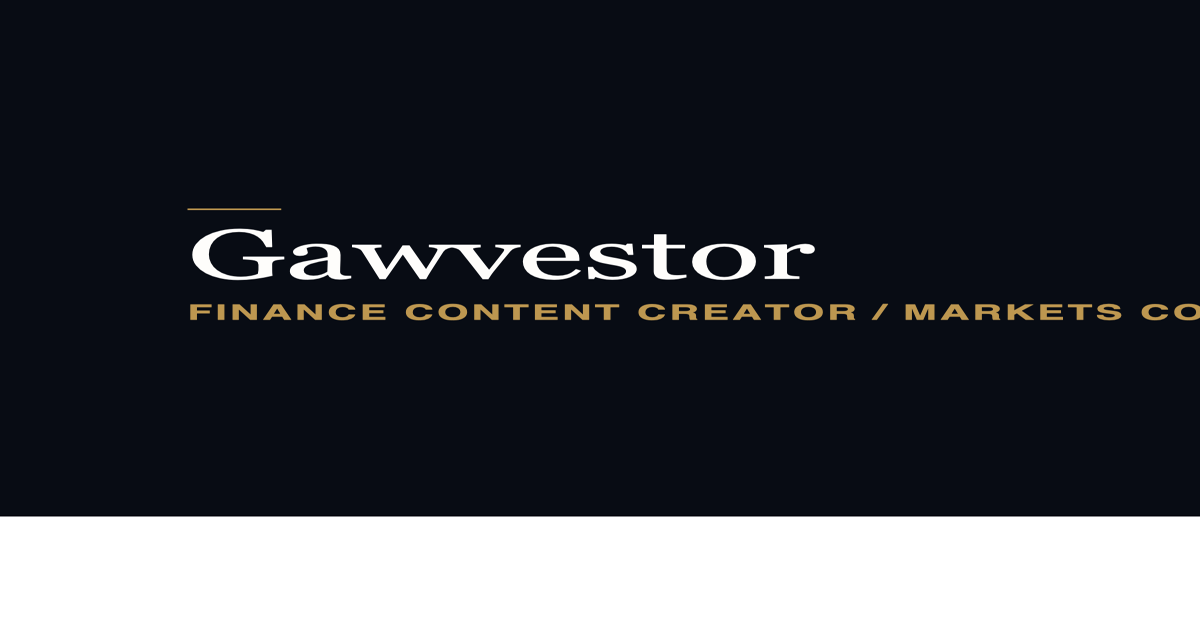
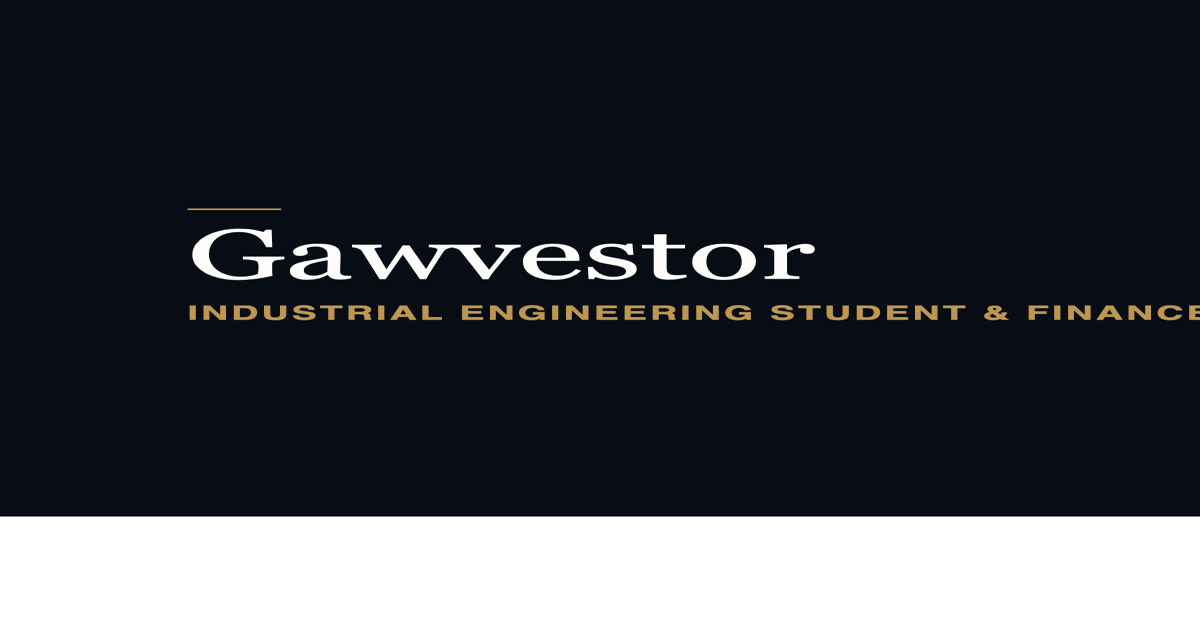
Update site copy with accurate bio and background
Replace placeholder title, hero bio, and background details with
Brandon's actual education (Oregon State, Industrial Engineering/Finance)
and content philosophy across index.html and site content config.

Claude-Session: https://claude.ai/code/session_01P5x7VEgGJuAj475h382WTx

Changed region(s): [[0.1542, 0.4825, 1.0, 0.5127]]

diff --git a/index.html b/index.html
@@ -6,20 +6,20 @@
     <meta name="viewport" content="width=device-width, initial-scale=1.0" />
     <meta name="theme-color" content="#080c14" />
 
-    <title>Gawvestor — Finance Content Creator & Markets Commentator</title>
+    <title>Gawvestor — Industrial Engineering Student & Finance Content Creator</title>
     <meta
       name="description"
-      content="Gawvestor breaks down markets, investing, and the economy into clear, jargon-free stories for a general audience. Follow along, get in touch, or subscribe to the newsletter."
+      content="Gawvestor breaks down markets, investing, tech supply chains, and personal finance into clear, jargon-free stories for young adults. Follow along, get in touch, or subscribe to the newsletter."
     />
 
     <!-- Open Graph -->
     <meta property="og:type" content="website" />
     <meta property="og:url" content="https://gawvestor.com/" />
     <meta property="og:site_name" content="Gawvestor" />
-    <meta property="og:title" content="Gawvestor — Finance Content Creator & Markets Commentator" />
+    <meta property="og:title" content="Gawvestor — Industrial Engineering Student & Finance Content Creator" />
     <meta
       property="og:description"
-      content="Breaking down markets, investing, and the economy into clear, jargon-free stories for a general audience."
+      content="Breaking down markets, investing, tech supply chains, and personal finance into clear, jargon-free stories for young adults."
     />
     <meta property="og:image" content="https://gawvestor.com/og-image.png" />
     <meta property="og:image:width" content="1200" />
@@ -27,10 +27,10 @@
 
     <!-- Twitter -->
     <meta name="twitter:card" content="summary_large_image" />
-    <meta name="twitter:title" content="Gawvestor — Finance Content Creator & Markets Commentator" />
+    <meta name="twitter:title" content="Gawvestor — Industrial Engineering Student & Finance Content Creator" />
     <meta
       name="twitter:description"
-      content="Breaking down markets, investing, and the economy into clear, jargon-free stories for a general audience."
+      content="Breaking down markets, investing, tech supply chains, and personal finance into clear, jargon-free stories for young adults."
     />
     <meta name="twitter:image" content="https://gawvestor.com/og-image.png" />
   </head>

diff --git a/src/config/content.ts b/src/config/content.ts
@@ -4,9 +4,9 @@ export const SITE = {
 
 export const HERO = {
   name: 'Brandon Gaw',
-  title: 'Finance Content Creator & Markets Commentator',
+  title: 'Industrial Engineering Student & Finance Content Creator',
   valueProp:
-    "I break down markets, investing, and the economy into clear, jargon-free stories — helping a general audience understand what's actually moving, and why.",
+    "I break down markets, investing, technology supply chains, and personal finance into clear, jargon-free stories — helping young adults understand what's actually moving, and why.",
   ctaLabel: 'Schedule a Conversation',
 } as const
 
@@ -55,11 +55,10 @@ export const TRUST = {
     { value: '4+', label: 'Years creating content' },
   ],
   background: [
-    'Semiconductor industry experience',
-    'Degree from IE Business School',
+    'Industrial Engineering major with a Finance minor at Oregon State University',
+    'Experience in semiconductor supply chains & engineering',
   ],
-  philosophy:
-    'Education-focused, data-driven, no hype. I explain the reasoning behind market moves so you can form your own opinion — not chase a hot take.',
+  philosophy: 'Data-driven, educational, and practical finance commentary.',
 } as const
 
 export const CONTACT = {
